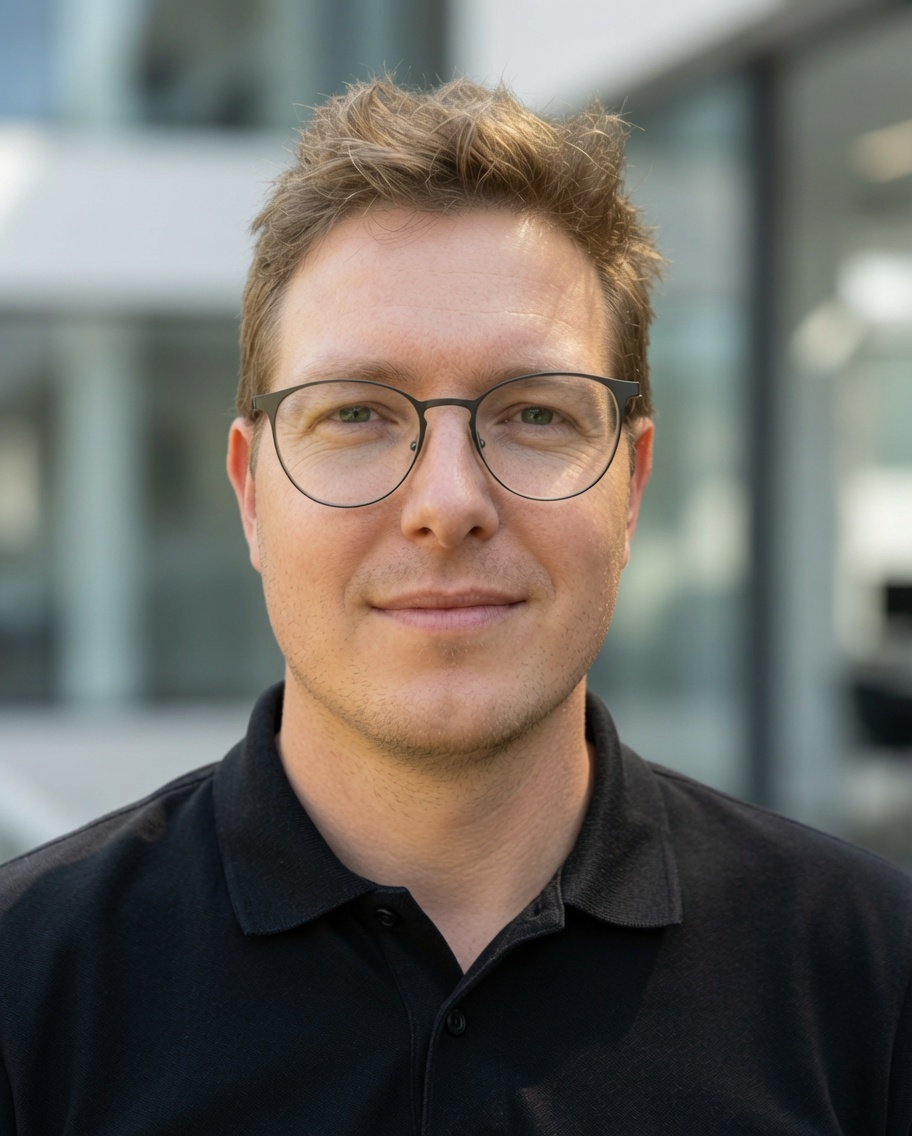
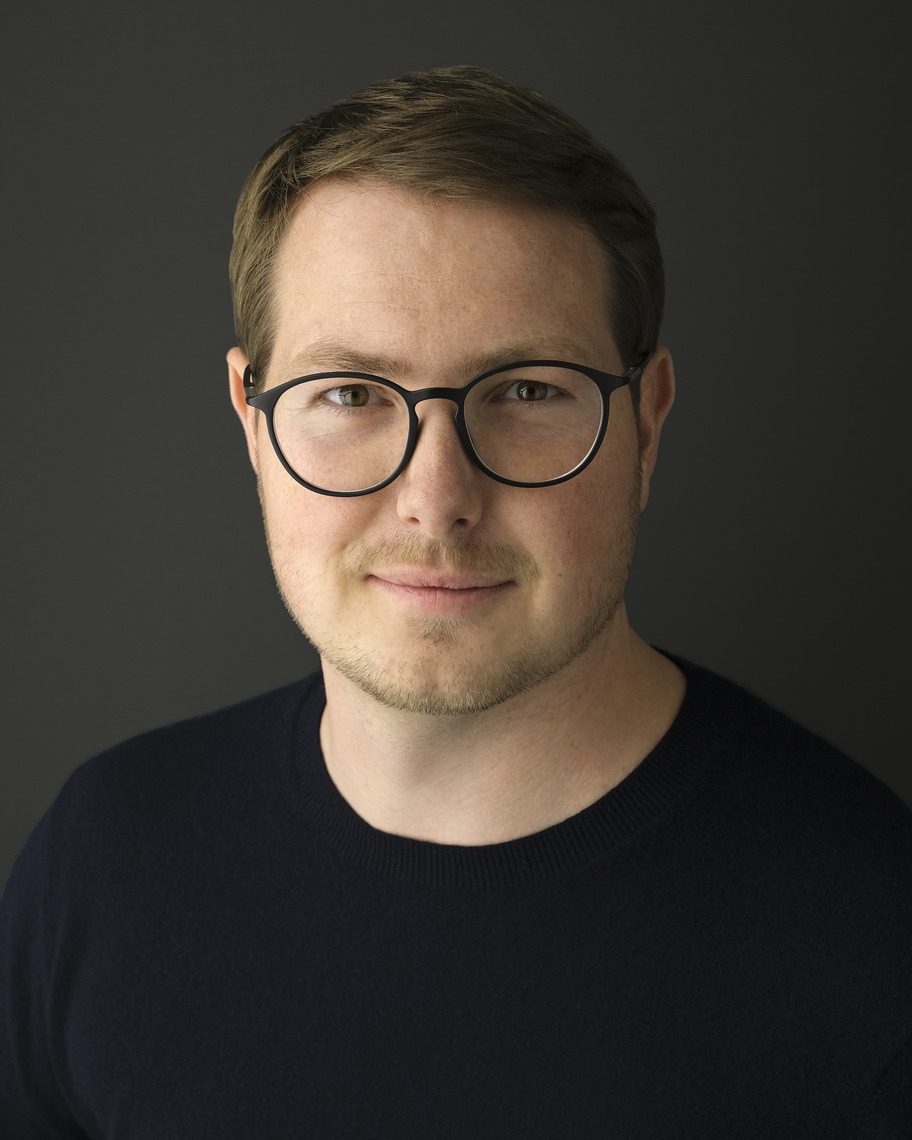
Publish site from inblockio/inblock-marketing-site@b18a25d

diff --git a/about/team/index.html b/about/team/index.html
@@ -136,7 +136,7 @@ Meet the team.
 			initAll();
 		}
 	})();
-</script> <div class="relative z-10" data-astro-cid-q5gx6tde>  <section class="mx-auto max-w-7xl px-6 py-24 max-sm:py-14 lg:px-8" data-astro-cid-q5gx6tde> <div id="tim" class="mb-8 h-0.5 w-[140px] rounded-full bg-orange-500 scroll-mt-8" aria-hidden="true" data-astro-cid-q5gx6tde></div> <div class="grid gap-12 lg:grid-cols-[18rem_1fr] lg:items-start" data-astro-cid-q5gx6tde> <img src="/team/tim-portrait.jpg" alt="Tim Bansemer" width="912" height="1136" class="aspect-[4/5] w-full max-w-[18rem] overflow-hidden rounded-2xl object-cover shadow-[0_18px_40px_-18px_rgba(63,35,5,0.35)]" data-astro-cid-q5gx6tde> <div data-astro-cid-q5gx6tde> <p class="mt-2 text-sm font-semibold uppercase tracking-[0.18em] text-orange-600 sm:text-base" data-astro-cid-q5gx6tde>The Brain</p> <h2 class="font-display text-3xl font-bold leading-tight tracking-tight text-[#3f2305] sm:text-4xl mt-2" data-astro-cid-q5gx6tde>Tim Bansemer</h2>  <p class="mt-2 text-base font-medium text-[#3f2305] sm:text-lg" data-astro-cid-q5gx6tde>CEO &amp; CTO<a href="https://www.linkedin.com/in/tim-bansemer-51a12699/" target="_blank" rel="noopener noreferrer" aria-label="Tim Bansemer on LinkedIn" class="-my-1 ml-3 inline-flex h-7 w-7 items-center justify-center rounded-full border border-[#3f2305]/25 align-middle text-[#3f2305] transition hover:border-orange-600 hover:text-orange-600" data-astro-cid-q5gx6tde><svg class="h-4 w-4" fill="currentColor" viewBox="0 0 24 24" aria-hidden="true" data-astro-cid-q5gx6tde><path d="M20.447 20.452h-3.554v-5.569c0-1.328-.027-3.037-1.852-3.037-1.853 0-2.136 1.445-2.136 2.939v5.667H9.351V9h3.414v1.561h.046c.477-.9 1.637-1.85 3.37-1.85 3.601 0 4.267 2.37 4.267 5.455v6.286zM5.337 7.433a2.062 2.062 0 01-2.063-2.065 2.063 2.063 0 112.063 2.065zm1.782 13.019H3.555V9h3.564v11.452zM22.225 0H1.771C.792 0 0 .774 0 1.729v20.542C0 23.227.792 24 1.771 24h20.451C23.2 24 24 23.227 24 22.271V1.729C24 .774 23.2 0 22.222 0h.003z" data-astro-cid-q5gx6tde></path></svg></a></p>  <p class="mt-6 max-w-4xl text-pretty text-lg leading-[1.8] text-[#4a3d2c] sm:text-xl" data-astro-cid-q5gx6tde>
+</script> <div class="relative z-10" data-astro-cid-q5gx6tde>  <section class="mx-auto max-w-7xl px-6 py-24 max-sm:py-14 lg:px-8" data-astro-cid-q5gx6tde> <div id="tim" class="mb-8 h-0.5 w-[140px] rounded-full bg-orange-500 scroll-mt-8" aria-hidden="true" data-astro-cid-q5gx6tde></div> <div class="grid gap-12 lg:grid-cols-[18rem_1fr] lg:items-start" data-astro-cid-q5gx6tde> <img src="/team/tim-portrait.jpg" alt="Tim Bansemer" width="912" height="1140" class="aspect-[4/5] w-full max-w-[18rem] overflow-hidden rounded-2xl object-cover shadow-[0_18px_40px_-18px_rgba(63,35,5,0.35)]" data-astro-cid-q5gx6tde> <div data-astro-cid-q5gx6tde> <p class="mt-2 text-sm font-semibold uppercase tracking-[0.18em] text-orange-600 sm:text-base" data-astro-cid-q5gx6tde>The Brain</p> <h2 class="font-display text-3xl font-bold leading-tight tracking-tight text-[#3f2305] sm:text-4xl mt-2" data-astro-cid-q5gx6tde>Tim Bansemer</h2>  <p class="mt-2 text-base font-medium text-[#3f2305] sm:text-lg" data-astro-cid-q5gx6tde>CEO &amp; CTO<a href="https://www.linkedin.com/in/tim-bansemer-51a12699/" target="_blank" rel="noopener noreferrer" aria-label="Tim Bansemer on LinkedIn" class="-my-1 ml-3 inline-flex h-7 w-7 items-center justify-center rounded-full border border-[#3f2305]/25 align-middle text-[#3f2305] transition hover:border-orange-600 hover:text-orange-600" data-astro-cid-q5gx6tde><svg class="h-4 w-4" fill="currentColor" viewBox="0 0 24 24" aria-hidden="true" data-astro-cid-q5gx6tde><path d="M20.447 20.452h-3.554v-5.569c0-1.328-.027-3.037-1.852-3.037-1.853 0-2.136 1.445-2.136 2.939v5.667H9.351V9h3.414v1.561h.046c.477-.9 1.637-1.85 3.37-1.85 3.601 0 4.267 2.37 4.267 5.455v6.286zM5.337 7.433a2.062 2.062 0 01-2.063-2.065 2.063 2.063 0 112.063 2.065zm1.782 13.019H3.555V9h3.564v11.452zM22.225 0H1.771C.792 0 0 .774 0 1.729v20.542C0 23.227.792 24 1.771 24h20.451C23.2 24 24 23.227 24 22.271V1.729C24 .774 23.2 0 22.222 0h.003z" data-astro-cid-q5gx6tde></path></svg></a></p>  <p class="mt-6 max-w-4xl text-pretty text-lg leading-[1.8] text-[#4a3d2c] sm:text-xl" data-astro-cid-q5gx6tde>
 Tim has worked in IT infrastructure since 2010, spanning enterprise network
 								engineering and security, distributed systems, and open-source services for the
 								public sector. As the creator of Aqua Protocol, he leads its technical direction and ongoing
